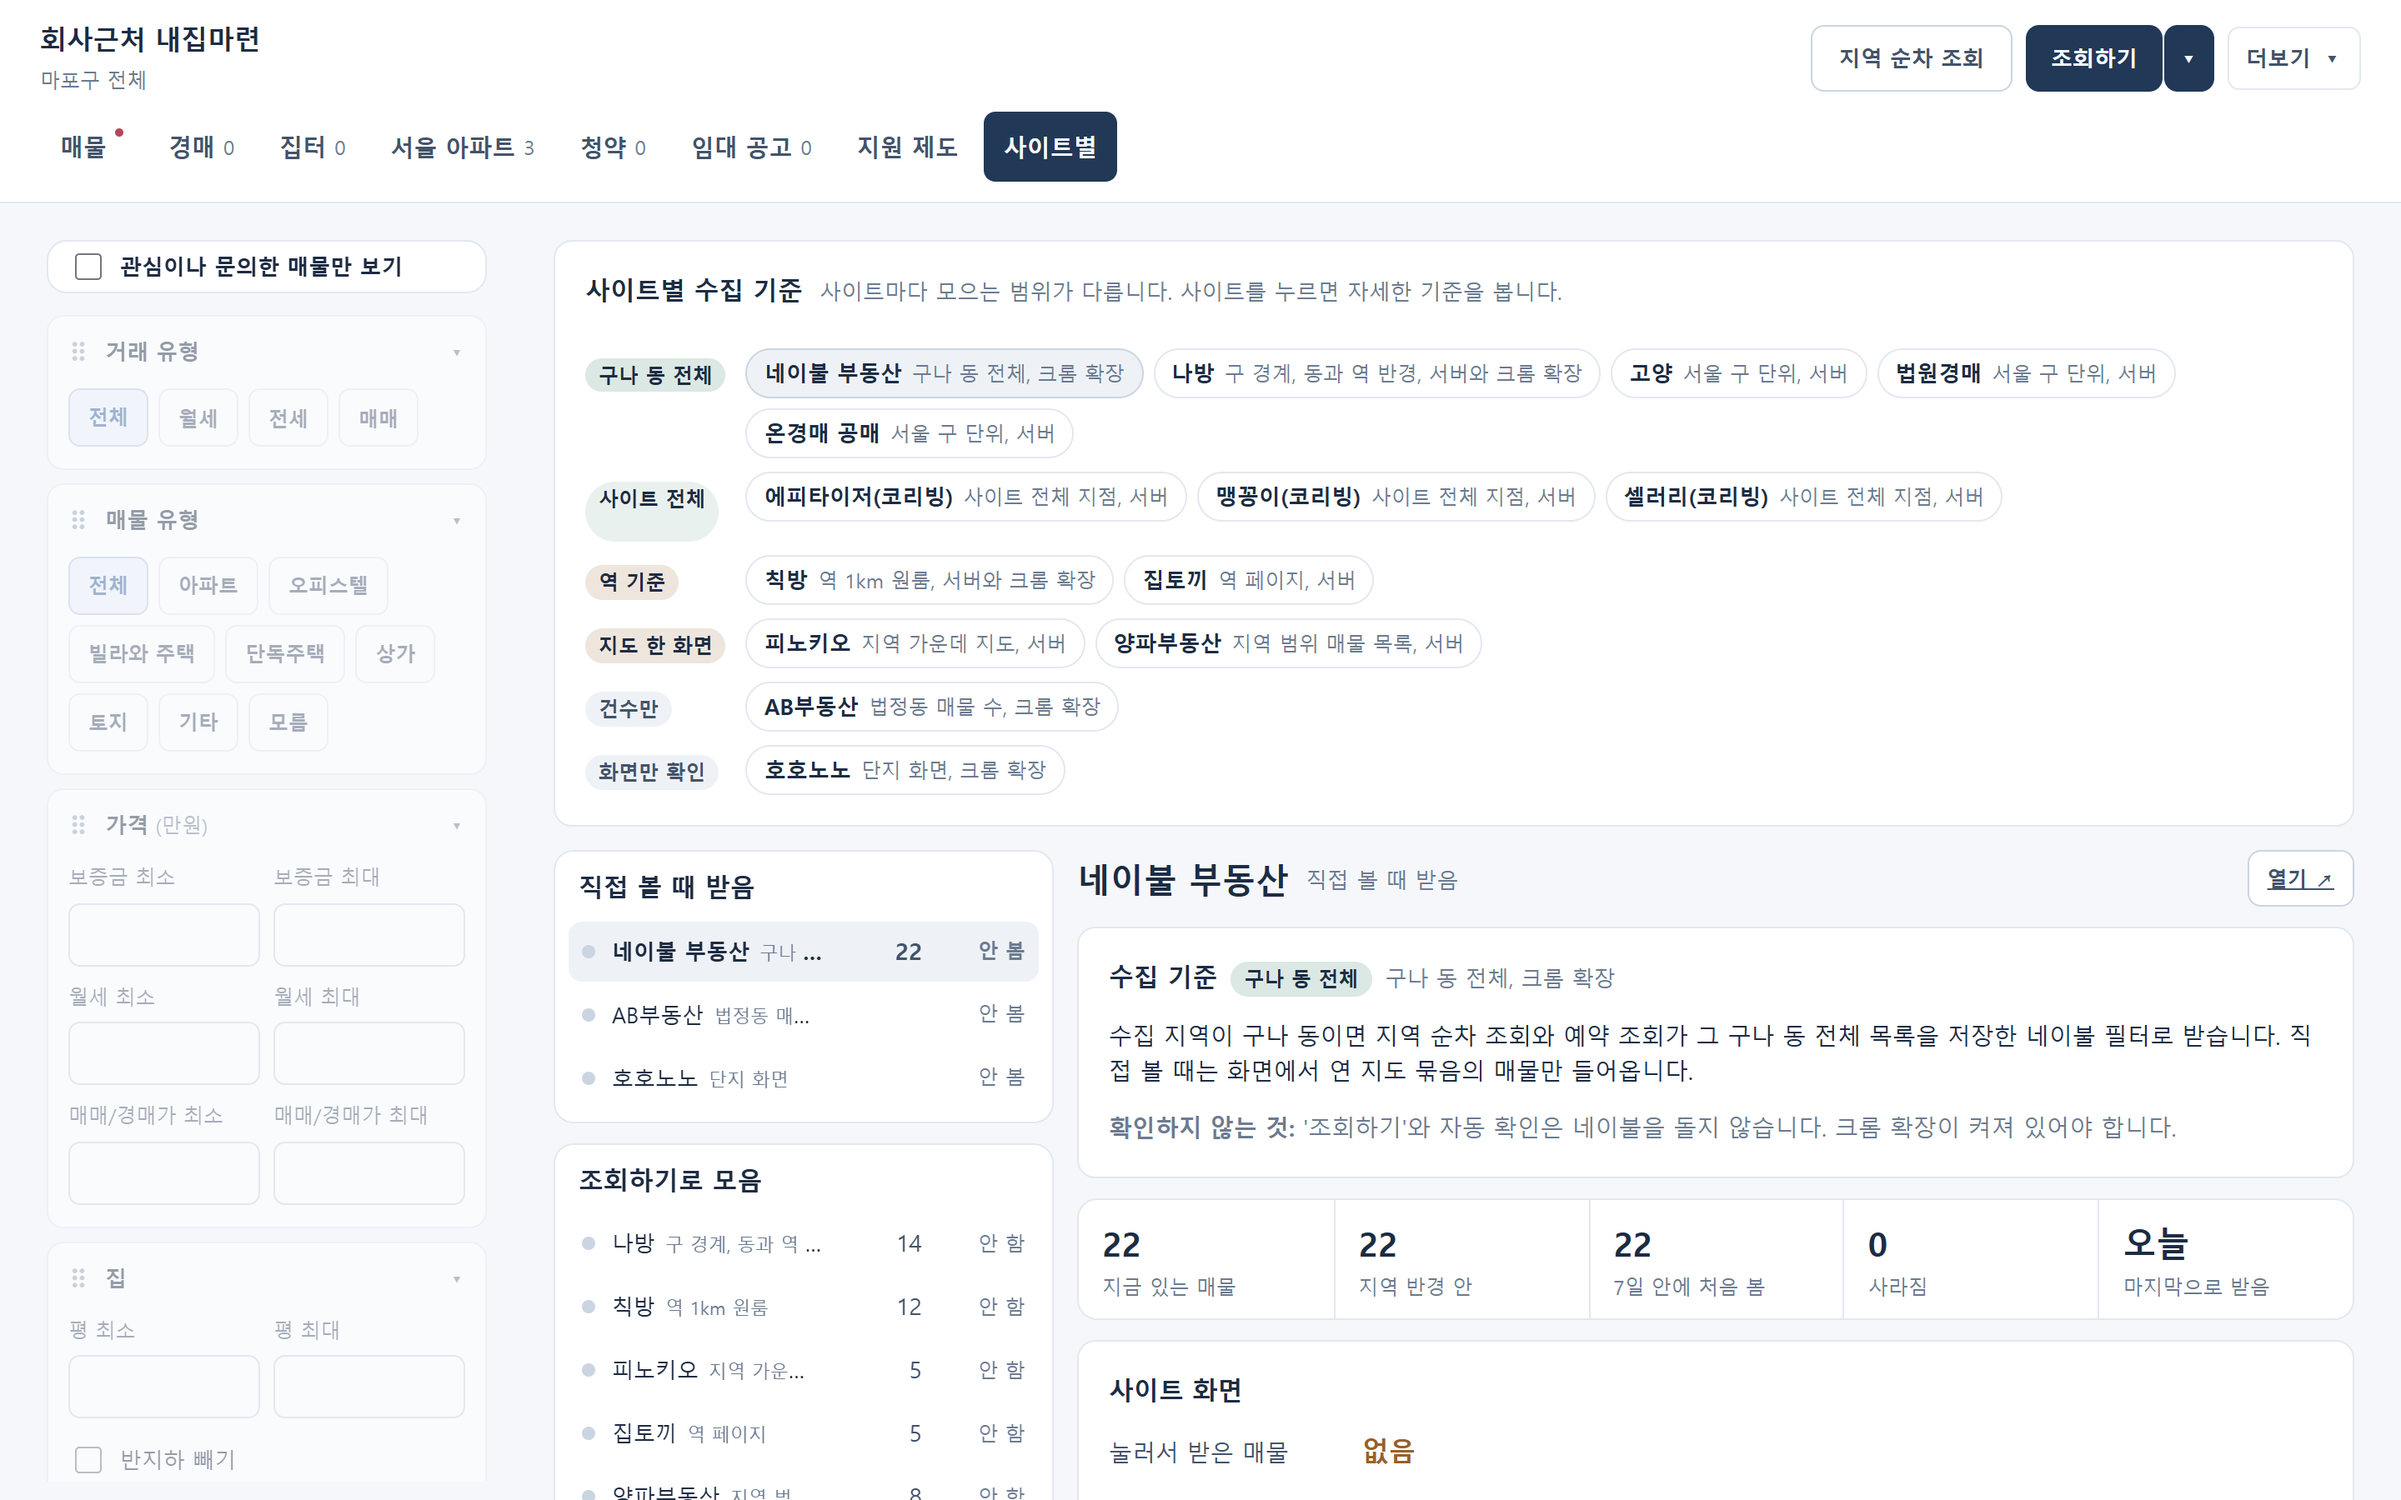
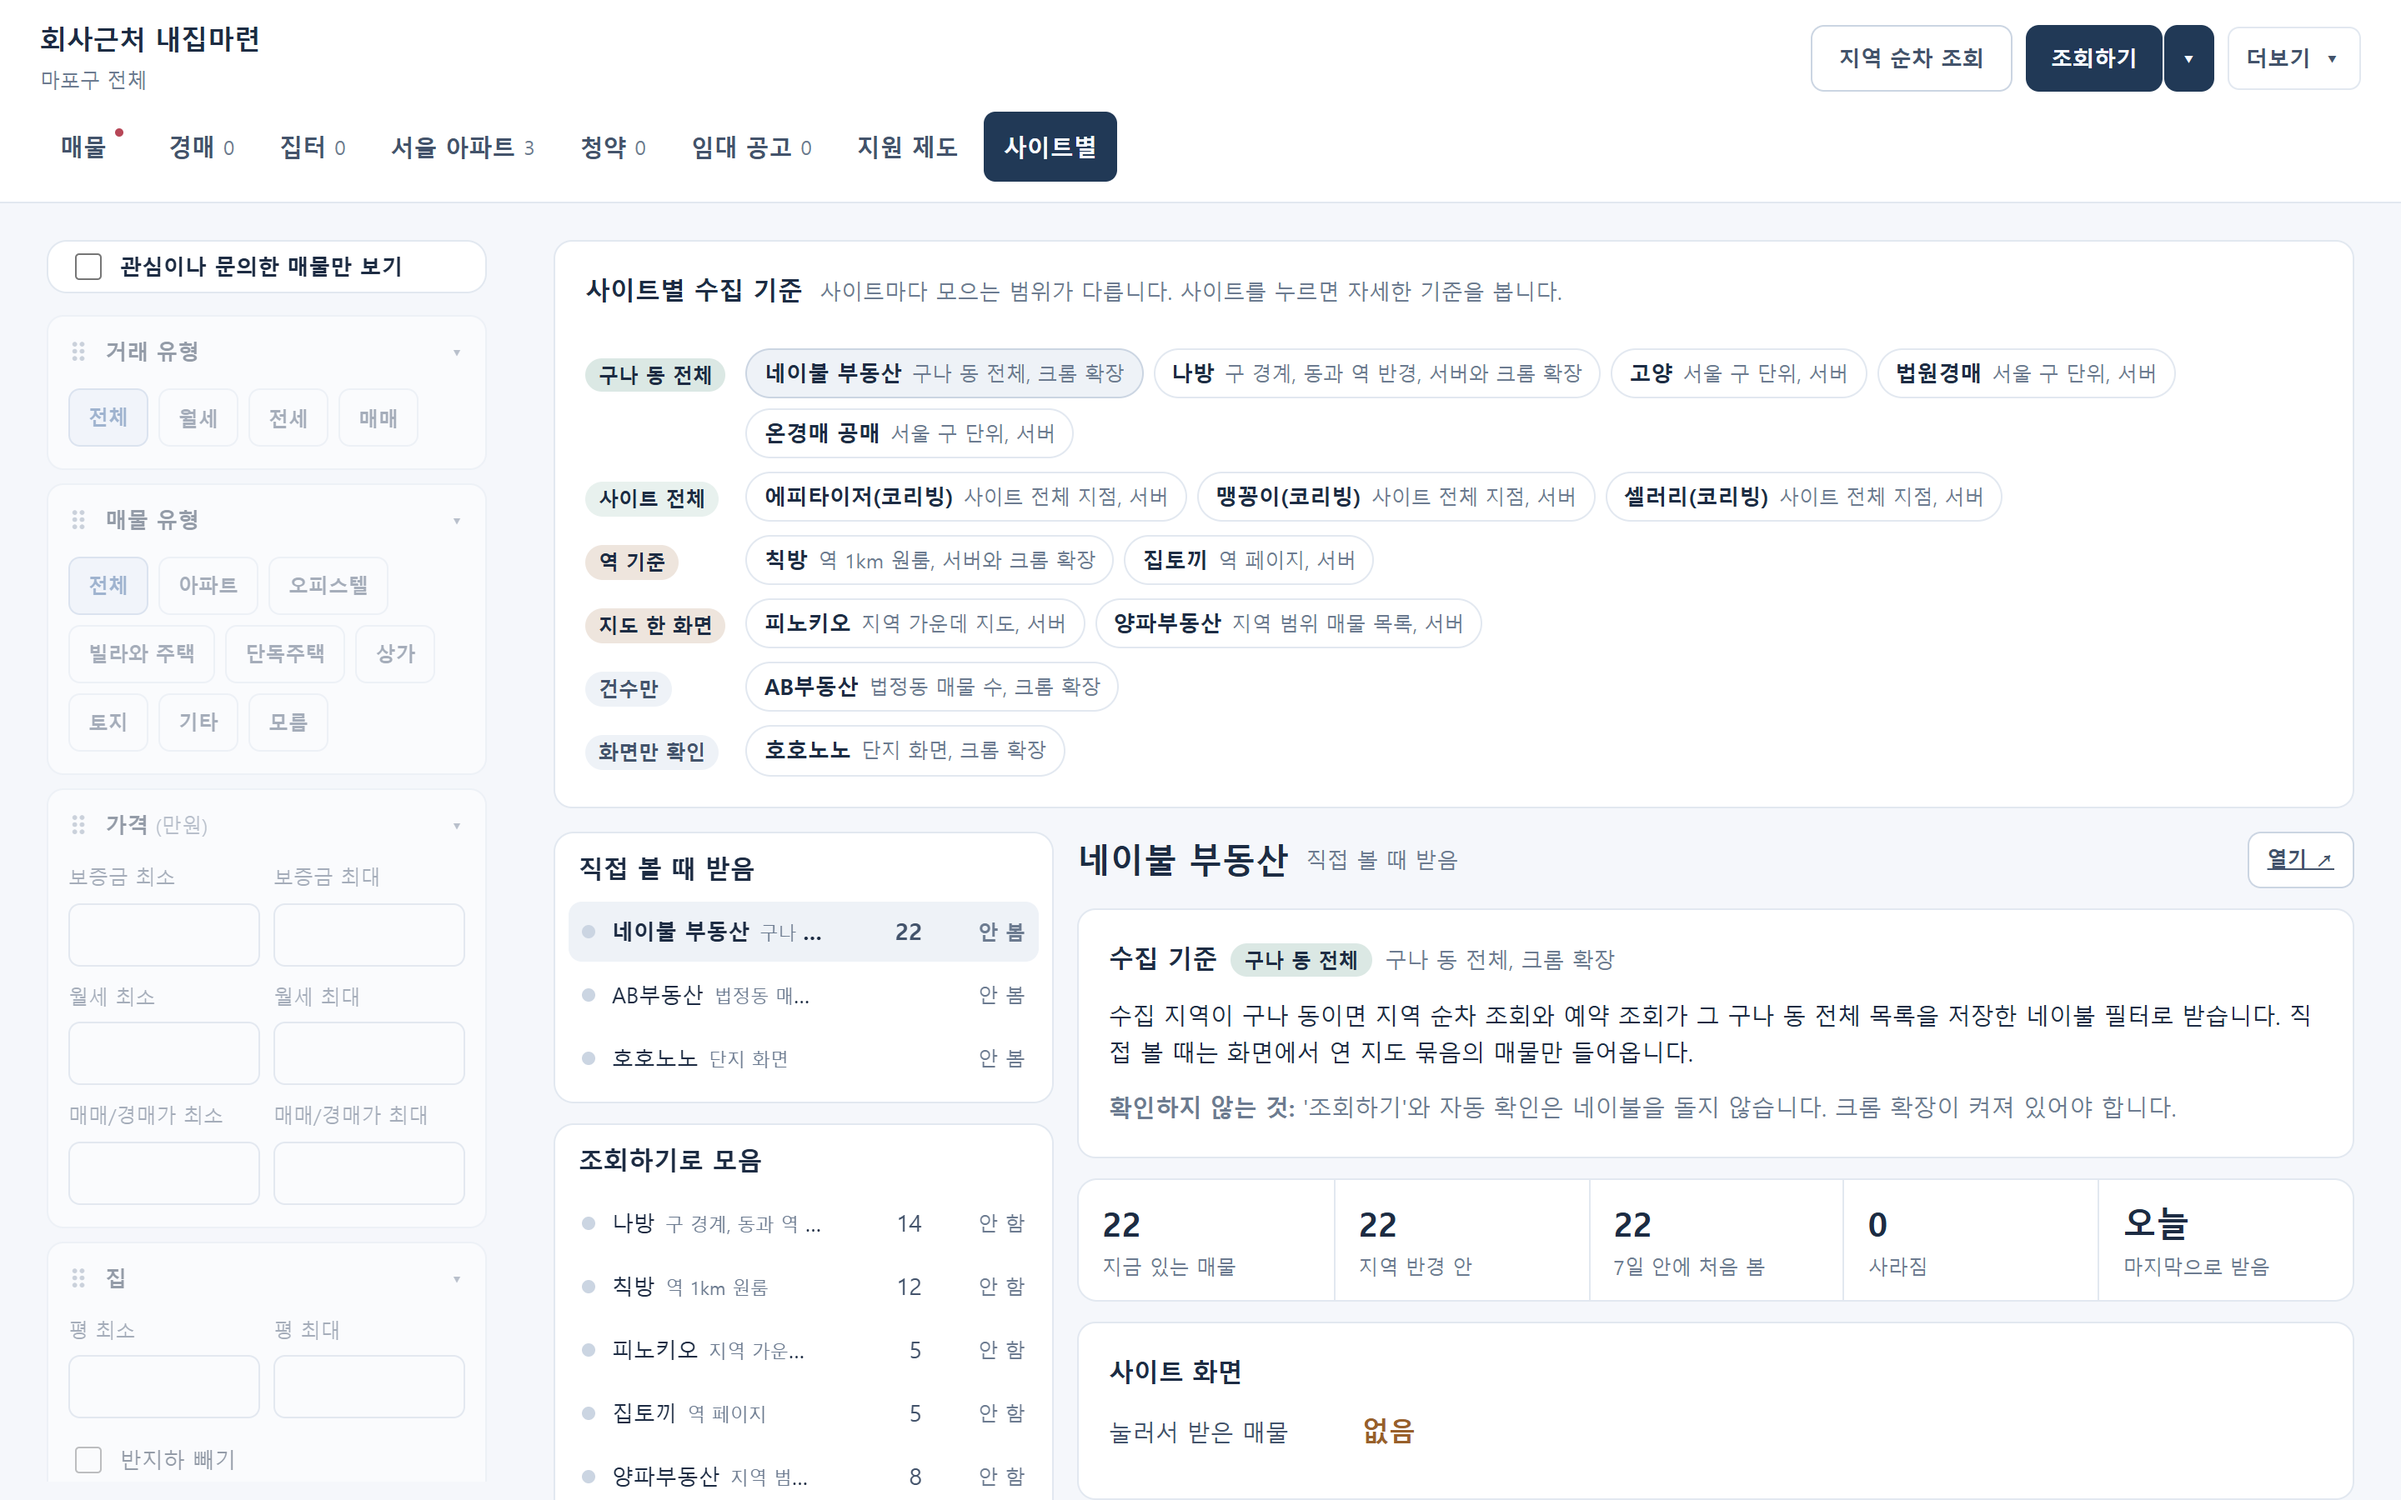
사이트별 탭의 '사이트 전체' 표시가 사이트 단추 스타일을 받아 길쭉해지던 것 고치기, README에 지도 말풍선 캡처 넣고 안내 문구 빼기

diff --git a/web/src/components/SitesTab.vue b/web/src/components/SitesTab.vue
@@ -244,7 +244,7 @@ const scopeCoverage = computed(() => report.value?.scopeCoverage?.[site.value.id
       <summary><h3>사이트별 수집 기준</h3><small class="muted">사이트마다 모으는 범위가 다릅니다. 사이트를 누르면 자세한 기준을 봅니다.</small></summary>
       <dl class="scopes">
         <template v-for="row in scopeRows" :key="row.kind">
-          <dt><span class="kind" :class="row.kind">{{ SCOPE_KIND_LABEL[row.kind] }}</span></dt>
+          <dt><span class="kind" :class="`k-${row.kind}`">{{ SCOPE_KIND_LABEL[row.kind] }}</span></dt>
           <dd>
             <button v-for="x in row.sites" :key="x.site.id" type="button" class="scope-site" :class="{ on: x.site.id === picked }"
               :aria-pressed="x.site.id === picked" :title="`${x.scope.how} 확인하지 않는 것: ${x.scope.limit}`" @click="picked = x.site.id">
@@ -279,7 +279,7 @@ const scopeCoverage = computed(() => report.value?.scopeCoverage?.[site.value.id
       </header>
 
       <div v-if="siteScope" class="block scope-detail">
-        <h3>수집 기준 <span class="kind" :class="siteScope.kind">{{ SCOPE_KIND_LABEL[siteScope.kind] }}</span><small>{{ siteScope.short }}, {{ siteScope.by }}</small></h3>
+        <h3>수집 기준 <span class="kind" :class="`k-${siteScope.kind}`">{{ SCOPE_KIND_LABEL[siteScope.kind] }}</span><small>{{ siteScope.short }}, {{ siteScope.by }}</small></h3>
         <p>{{ siteScope.how }}</p>
         <p class="muted"><b>확인하지 않는 것:</b> {{ siteScope.limit }}</p>
         <ul v-if="scopeCoverage.length" class="coverage">
@@ -439,9 +439,9 @@ h3 small { font-size: 13px; font-weight: 500; color: var(--muted); }
 .scope-site:hover, .scope-site.on { background: var(--surface-2); border-color: var(--line-strong); }
 @media (max-width: 520px) { .scopes { grid-template-columns: 1fr; } .scopes dt { padding-top: 0; } }
 .kind { display: inline-block; padding: 1px 8px; border-radius: 999px; font-size: 12px; font-weight: 600; background: var(--surface-2); color: var(--ink-2); white-space: nowrap; }
-.kind.region { background: color-mix(in srgb, var(--down) 16%, transparent); color: var(--ink); }
-.kind.site { background: color-mix(in srgb, var(--down) 10%, transparent); color: var(--ink); }
-.kind.station, .kind.map { background: color-mix(in srgb, var(--up) 16%, transparent); color: var(--ink); }
+.kind.k-region { background: color-mix(in srgb, var(--down) 16%, transparent); color: var(--ink); }
+.kind.k-site { background: color-mix(in srgb, var(--down) 10%, transparent); color: var(--ink); }
+.kind.k-station, .kind.k-map { background: color-mix(in srgb, var(--up) 16%, transparent); color: var(--ink); }
 .scope-detail p { margin: 0; font-size: 14px; line-height: 1.55; }
 .scope-detail h3 small { font-weight: 500; }
 .coverage { list-style: none; margin: 0; padding: 0; display: grid; gap: 4px; font-size: 14px; }

diff --git a/README.md b/README.md
@@ -6,9 +6,9 @@
 
 ![매물 탭: 가격대로 묶은 목록, 펼친 매물 카드, 지도](assets/readme/listings-cards.jpg)
 
-![사이트별 탭: 사이트마다 모으는 범위와 받은 건수](assets/readme/sites.png)
+![지도에서 가격 표시를 눌러 연 말풍선](assets/readme/map-popup.jpg)
 
-> 화면 캡처는 지어낸 매물로 만든 시연용 데이터입니다. 사이트 이름도 가명으로 바꿨습니다(예: 네이불, 나방, 칙방).
+![사이트별 탭: 사이트마다 모으는 범위와 받은 건수](assets/readme/sites.png)
 
 ## 하는 일
 
